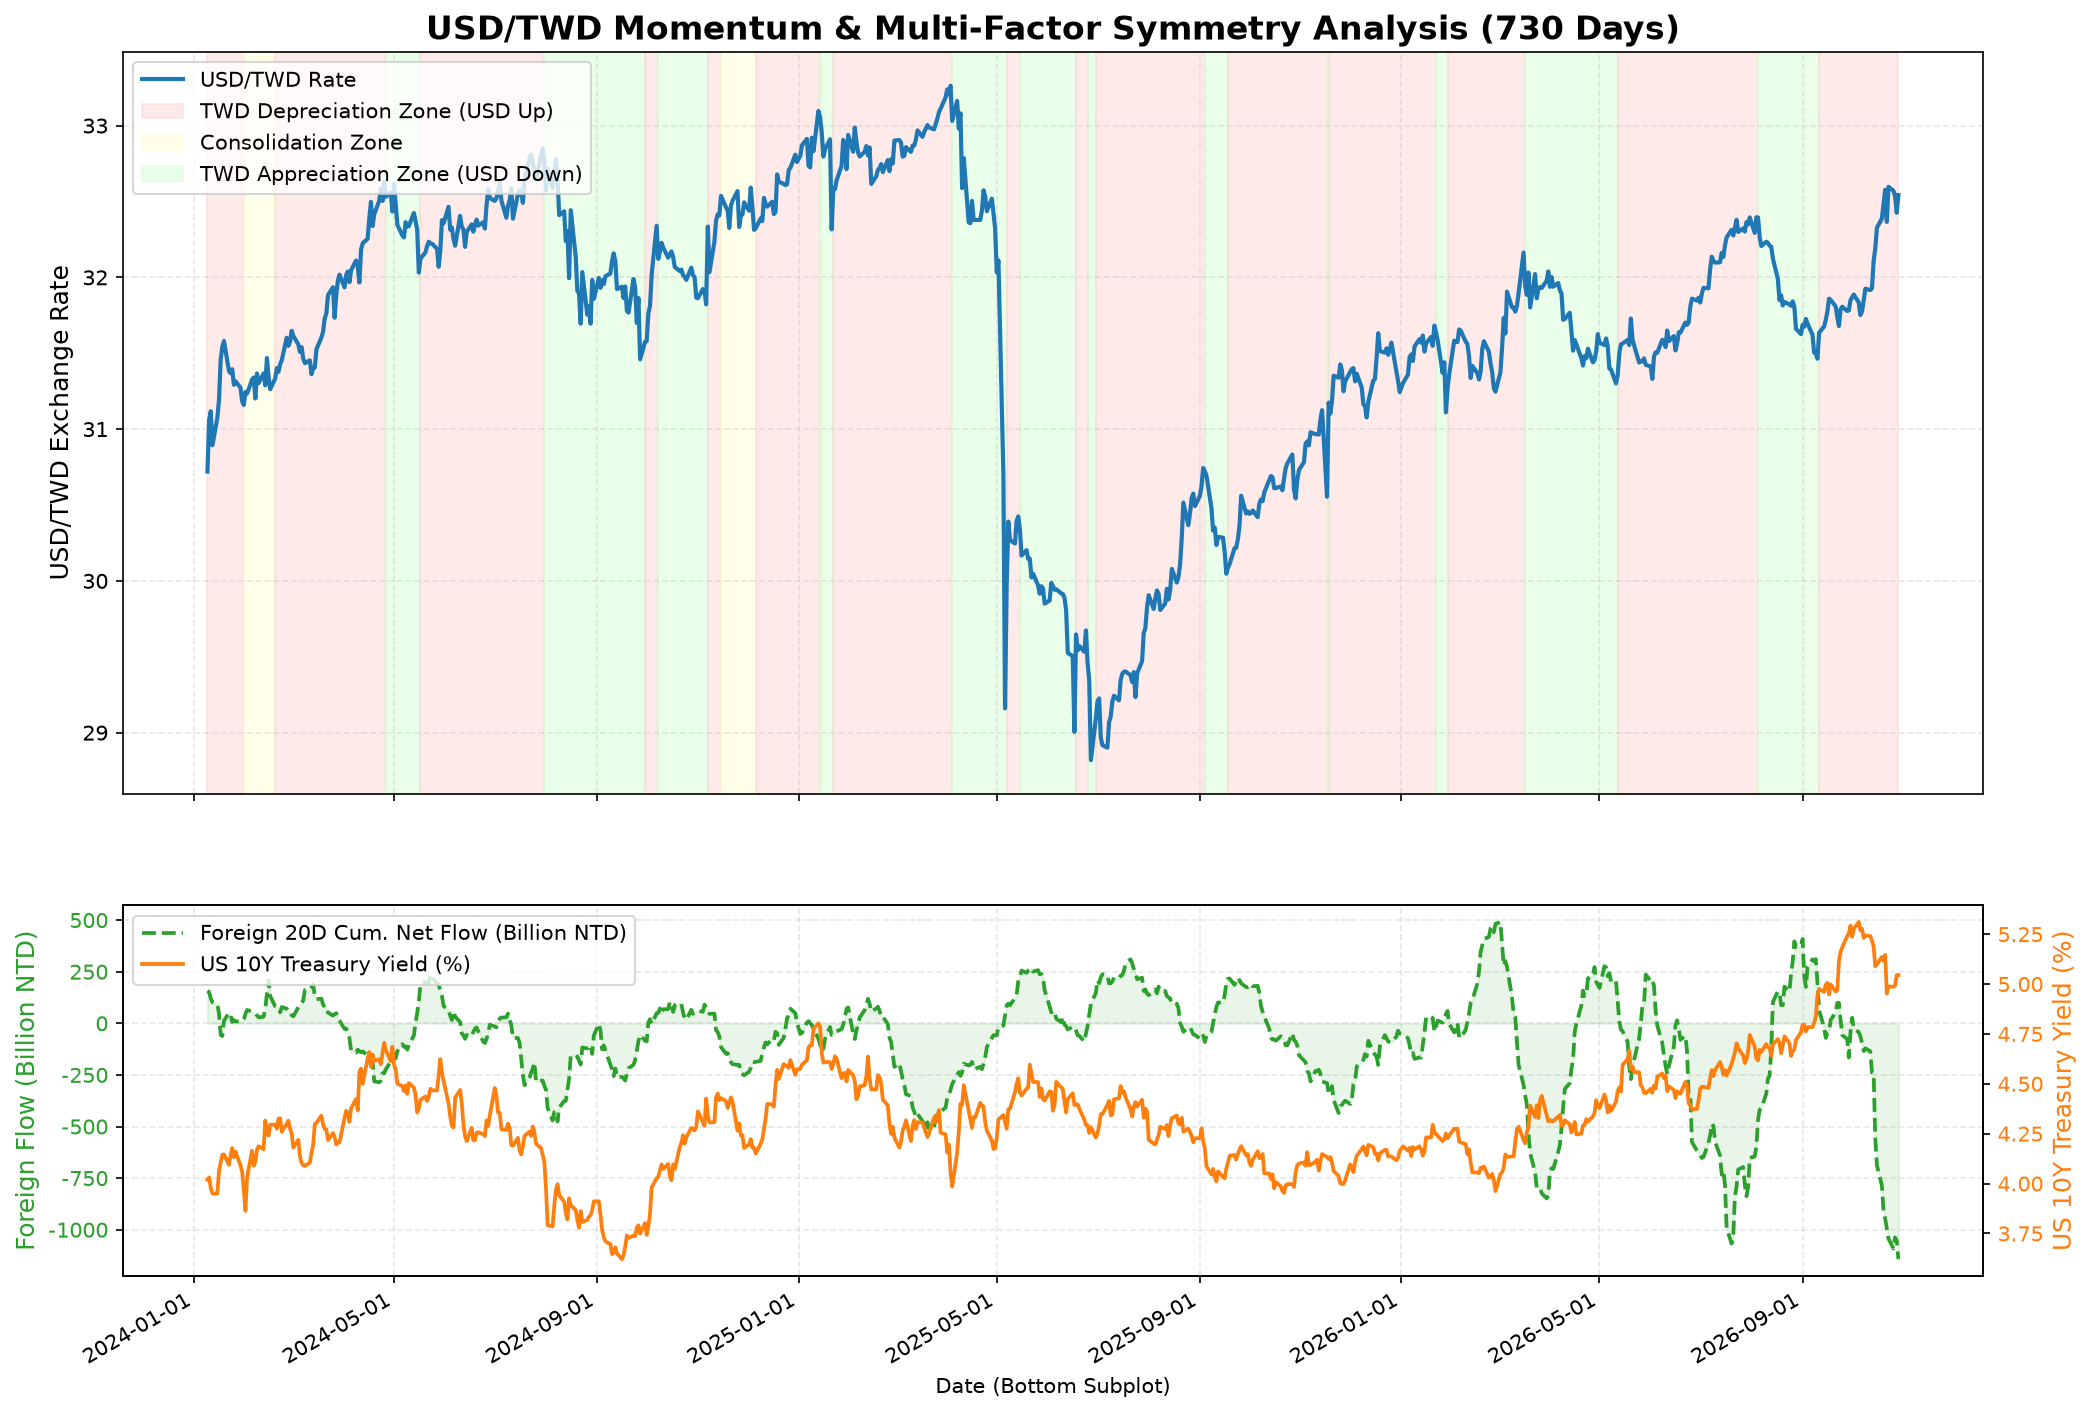
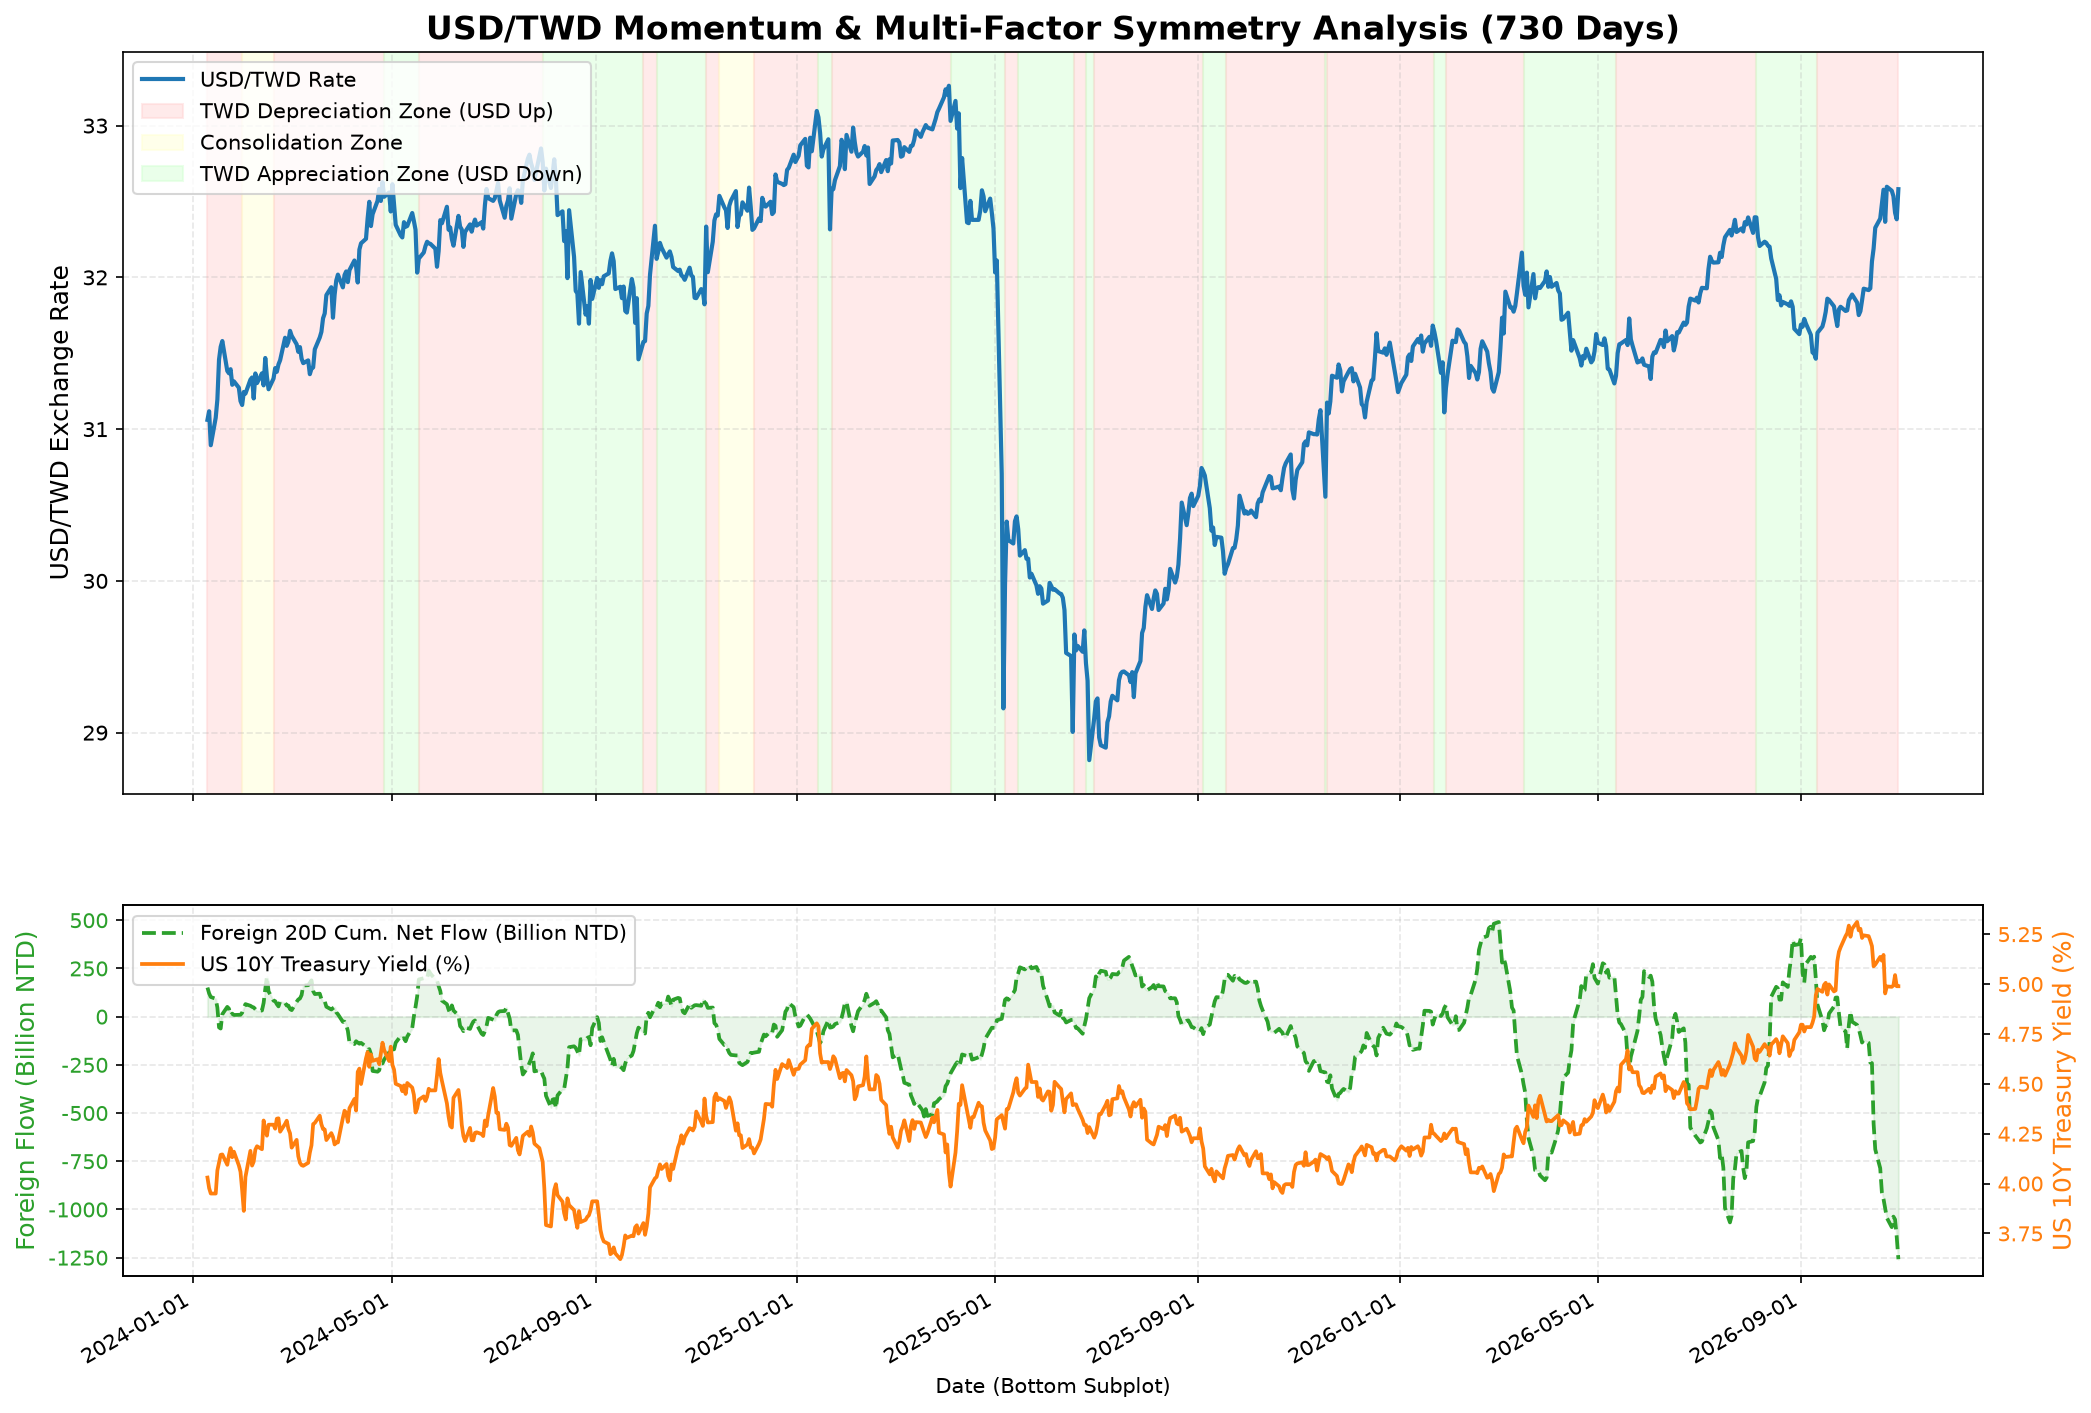
Auto-update USD/TWD momentum report (2026-10-30)

diff --git a/usdtwd.html b/usdtwd.html
@@ -57,7 +57,7 @@
                     <i class="fa-solid fa-money-bill-transfer text-amber-500"></i> USD/TWD 美元兌新台幣動能與多維度對稱分析報告
                 </h1>
                 <p class="text-sm text-gray-400 mt-1">
-                    標的：USD/TWD 匯率 ｜ 模型：雙速量價效率與波動對稱模型 ｜ 更新日期：2026-10-29
+                    標的：USD/TWD 匯率 ｜ 模型：雙速量價效率與波動對稱模型 ｜ 更新日期：2026-10-30
                 </p>
             </div>
             <div class="flex items-center gap-3">
@@ -116,17 +116,17 @@
 ════════════════════════════════════════════════════════════════════════════════
 
 【1. 跨市場與籌碼因子即時監控】
-  * 外資近 5 日累積淨買賣超: -224.06 十億元新台幣
-  * 外資近 20 日累積淨買賣超: -1142.80 十億元新台幣
-  * 美元指數 DXY: 102.16 (近5日變動: +0.35)
-  * 美元兌韓元 KRW: 1337.90 (近5日變動: +11.91)
-  * 美國 10 年期公債殖利率: 5.045% (近5日變動: +0.057%)
+  * 外資近 5 日累積淨買賣超: -254.95 十億元新台幣
+  * 外資近 20 日累積淨買賣超: -1257.89 十億元新台幣
+  * 美元指數 DXY: 101.63 (近5日變動: -0.33)
+  * 美元兌韓元 KRW: 1333.52 (近5日變動: +11.76)
+  * 美國 10 年期公債殖利率: 4.989% (近5日變動: +0.003%)
 --------------------------------------------------------------------------------
 【2. 歷史波段對稱統計 (台幣貶值波段 (美元兌台幣上漲))】
   * 歷史波段數: 37 次
   * 平均波動幅度: 2.91% (中位數: 2.15%)
   * 平均持續天數: 34.7 天
-  * 平均波段外資流入: -211.71 十億元
+  * 平均波段外資流入: -214.75 十億元
 --------------------------------------------------------------------------------
 【2. 歷史波段對稱統計 (台幣升值波段 (美元兌台幣下跌))】
   * 歷史波段數: 29 次
@@ -139,19 +139,19 @@
   * 波段起始日期: 2026-09-11 (起始匯率: 31.635)
   * 波段最高點 (Peak): 32.597
   * 波段最低點 (Trough): 31.635
-  * 當前最新匯率 (2026-10-29): 32.542
+  * 當前最新匯率 (2026-10-30): 32.581
   * 本波段累計變動: 3.04% (共 +0.962 元)
-  * 目前已持續交易日: 34 天
-  * 本波段外資累積淨流入: -1256.11 十億元
+  * 目前已持續交易日: 35 天
+  * 本波段外資累積淨流入: -1368.57 十億元
 
   [短線動能預警 (0.6% 領先燈號)]
   * 短線波段狀態: 台幣短線轉弱 (匯率自低點反彈)
-  * 短線轉折基準: 2026-10-22 (匯率基準價 32.366)
-  * 短線累計幅度: +0.54% (5 天)
+  * 短線轉折基準: 2026-10-29 (匯率基準價 32.383)
+  * 短線累計幅度: +0.61% (1 天)
 
   &gt;&gt;&gt; 【台幣貶值波段對稱投影預估 (以波段最低點計算)】 &lt;&lt;&lt;
   * 投影基準點 (本波段最低谷): 31.635
-  1. 溫和型貶值滿足點 (歷史平均 +2.91%): 【32.555】 (尚未抵達)
+  1. 溫和型貶值滿足點 (歷史平均 +2.91%): 【32.555】 (已超越)
   2. 標準型貶值滿足點 (歷史中位數 +2.15%): 【32.315】 (已超越)
 
   💡 操作與避險決策建議：
